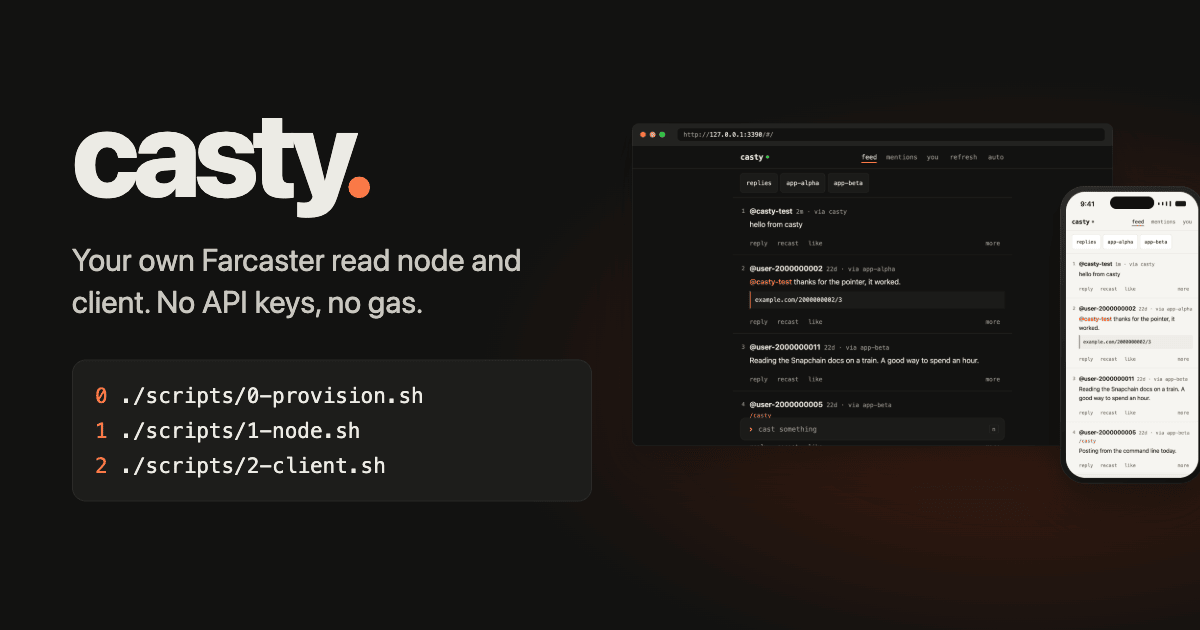
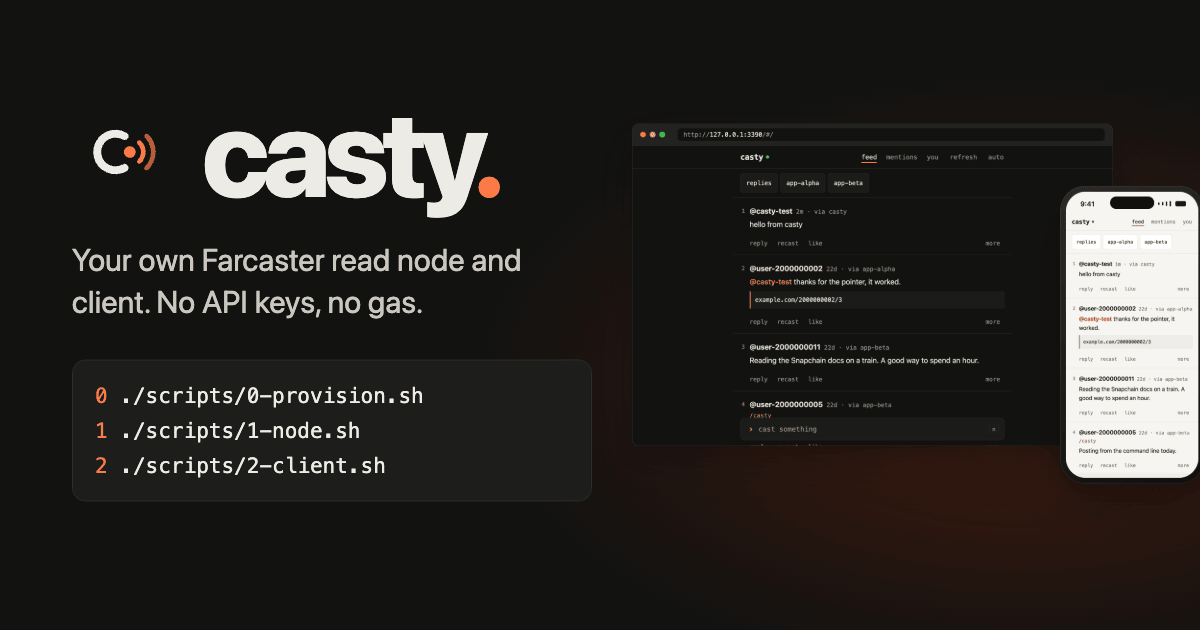
feat: the casty mark
A c around your node with a cast going out, in the colours of the page:
the icon of casty web and its home-screen PNG, the site's favicon and
header, the READMEs and the link preview card. The mark sits centred in
its square, with the strokes weighted so the open c and the arcs balance.

Changed region(s): [[0.0617, 0.181, 0.4317, 0.3619]]

diff --git a/docs/src/styles/custom.css b/docs/src/styles/custom.css
@@ -109,3 +109,13 @@
     order: 2;
   }
 }
+
+/* The mark beside the name in the header, as one lockup. */
+.site-title {
+  gap: 0.55rem;
+}
+
+.site-title img {
+  height: 1.9rem;
+  width: auto;
+}

diff --git a/README.ru.md b/README.ru.md
@@ -1,5 +1,7 @@
 <div align="center">
 
+<img src="docs/src/assets/logo.svg" width="88" alt="casty">
+
 # casty
 
 **Ваша собственная read-нода Farcaster и клиент, который читает из неё и пишет через неё.**<br>

diff --git a/README.ar.md b/README.ar.md
@@ -1,5 +1,7 @@
 <div align="center" dir="rtl">
 
+<img src="docs/src/assets/logo.svg" width="88" alt="casty">
+
 # casty
 
 **عقدة قراءة Farcaster خاصة بك، وعميل يقرأ منها ويكتب من خلالها.**<br>

diff --git a/README.fr.md b/README.fr.md
@@ -1,5 +1,7 @@
 <div align="center">
 
+<img src="docs/src/assets/logo.svg" width="88" alt="casty">
+
 # casty
 
 **Votre propre nœud de lecture Farcaster, et un client qui lit depuis ce nœud et écrit à travers lui.**<br>

diff --git a/README.zh.md b/README.zh.md
@@ -1,5 +1,7 @@
 <div align="center">
 
+<img src="docs/src/assets/logo.svg" width="88" alt="casty">
+
 # casty
 
 **你自己的 Farcaster 只读节点，以及一个从它读取、通过它写入的客户端。**<br>

diff --git a/README.es.md b/README.es.md
@@ -1,5 +1,7 @@
 <div align="center">
 
+<img src="docs/src/assets/logo.svg" width="88" alt="casty">
+
 # casty
 
 **Tu propio nodo de lectura de Farcaster y un cliente que lee de él y escribe a través de él.**<br>

diff --git a/README.md b/README.md
@@ -1,5 +1,7 @@
 <div align="center">
 
+<img src="docs/src/assets/logo.svg" width="88" alt="casty">
+
 # casty
 
 **Your own Farcaster read node, and a client that reads from it and writes through it.**<br>
